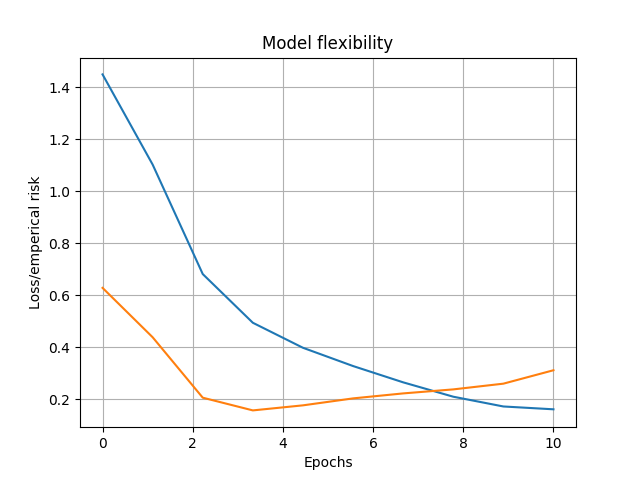
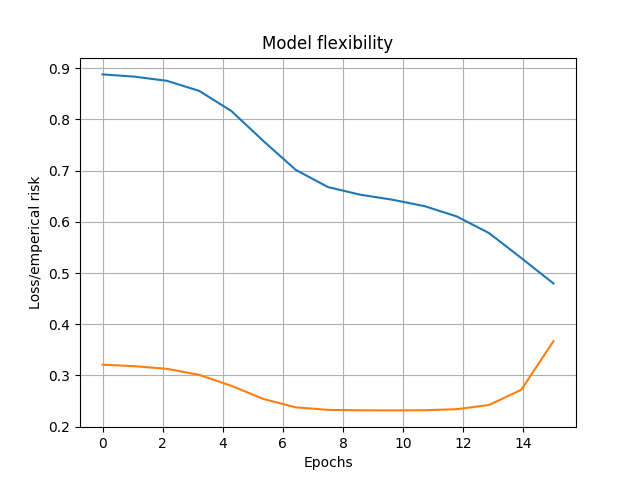
RR

diff --git a/rnnModel4.py b/rnnModel4.py
@@ -90,7 +90,7 @@ with open('pride.csv', newline='') as f: # andere csv file openen
                 loudness2 = data[line_count][5]
             line_count += 1
 
-            quarter_notes = int(data[line_count][1]) / 80 # verandert per liedje
+            quarter_notes = int(data[line_count][1]) / 480 # verandert per liedje
             sixteenth_notes = quarter_notes
 
         vector = [int(loudness1)/127, int(loudness2)/127]
@@ -135,10 +135,10 @@ class RNN:
         self.vocab_size = 2
         self.learning_rate = 0.01
 
-        self.bptt_truncate = 10
+        self.bptt_truncate = 5
         self.min_clip_value = -1   #uitproberen met trial and error
         self.max_clip_value = 1    #uitproberen met trial and error
-        self.alfa = 20
+        self.alfa = 10
 
         self.Winput = np.random.uniform(-np.sqrt(1./self.vocab_size), np.sqrt(1./self.vocab_size), (self.hidden_size, self.vocab_size))
         self.W = np.random.uniform(-np.sqrt(1./self.vocab_size), np.sqrt(1./self.vocab_size), (self.hidden_size, self.hidden_size))
@@ -215,6 +215,12 @@ class RNN:
         dWout /= len(Y)
         return dWin, dW, dWout
 
+    def lastWUpdate(self, Y):
+        self.Winput += (2 * self.alfa * (self.Winput / len(Y)))
+        self.W +=  (2 * self.alfa * (self.W / len(Y)))
+        self.Woutput += (2 * self.alfa * (self.Woutput / len(Y)))
+        print("winput", self.Winput, "W", self.W, "Woutput", self.Woutput)
+
     def updateWeights(self, dWin, dW, dWout, Y):
         #preventing from exploding gradient problem:
         if dWin.max() > self.max_clip_value:
@@ -231,10 +237,14 @@ class RNN:
         if dWout.min() < self.min_clip_value:
             dWout[dWout < self.min_clip_value] = self.min_clip_value
 
+        (2 * self.alfa * (self.Winput / len(Y)))
+        self.W +=  (2 * self.alfa * (self.W / len(Y)))
+        self.Woutput += (2 * self.alfa * (self.Woutput / len(Y)))
         #updating: + alfa w'w???
-        self.Winput -= self.learning_rate * dWin - (self.alfa * (self.Winput / len(Y)))
-        self.W -= self.learning_rate * dW - (self.alfa * (self.W / len(Y)))
-        self.Woutput -= self.learning_rate * dWout - (self.alfa * (self.Woutput / len(Y)))
+        print("winput", self.Winput, "W", self.W, "Woutput", self.Woutput)
+        self.Winput -= self.learning_rate * dWin + 2 * self.alfa * (self.Winput / len(Y))
+        self.W -= self.learning_rate * dW + self.W + 2 * self.alfa * (self.W / len(Y))
+        self.Woutput -= self.learning_rate * dWout + 2 * self.alfa * (self.Woutput / len(Y))
 
     def training(self, U, Y):
         x = np.zeros((self.hidden_size, 1))
@@ -293,6 +303,7 @@ while (previous_Testloss[0] + previous_Testloss[1] >= testLoss[0] + testLoss[1])
     testLoss = rnn.checkLoss(vector_array_u_test, vector_array_y_test)
     print('Epoch: ', epoch , ', Loss: ', trainLoss, ', Val Loss: ', testLoss)
 
+#rnn.lastWUpdate(vector_array_y_train)
 plot_losses(testLosses, trainingLosses, epoch)
 
 vector_array_u_test_train = np.append(vector_array_u_test, vector_array_u_train, axis=0)
@@ -304,6 +315,8 @@ for i in range(epoch):
     rnnRun.training(vector_array_u_test_train, vector_array_y_test_train)
     loss = rnn.checkLoss(vector_array_u_test_train, vector_array_y_test_train)
     print('Epoch: ', i, ', Loss: ', loss)
+
+#RnnRun.lastWUpdate(vector_array_y_test_train)
     #rnnRun.Winput += rnnRun.alfa * rnnRun.Winput
 #rnnRun.W += rnnRun.alfa * np.dot(rnnRun.W, np.transpose(rnnRun.W))
 #rnnRun.Woutput += rnnRun.alfa * rnnRun.Woutput
@@ -311,7 +324,7 @@ for i in range(epoch):
 vector_array_prime = []
 
 for i in range(10, 30):
-    vector_array_prime.append(vector_array_u_train[i])
+    vector_array_prime.append(vector_array_u_test_train[i])
 
 vector_array_prime = np.array(vector_array_prime)
 
